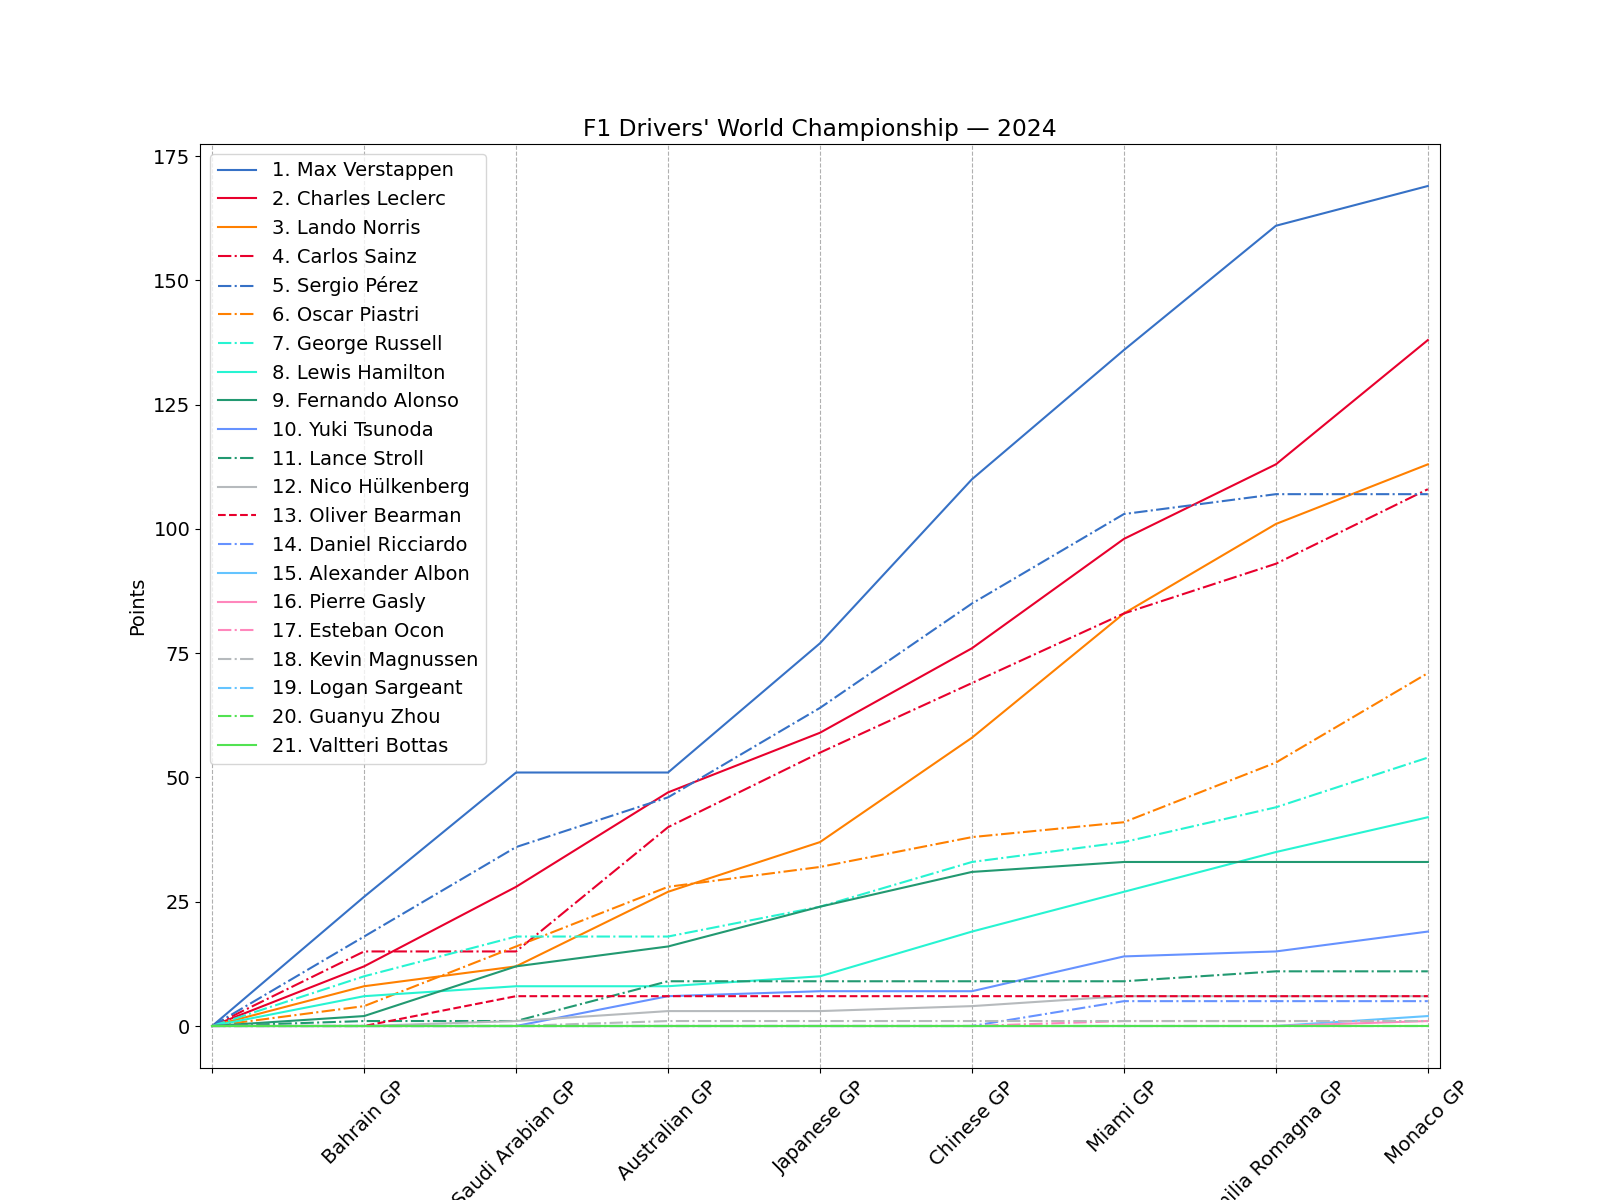
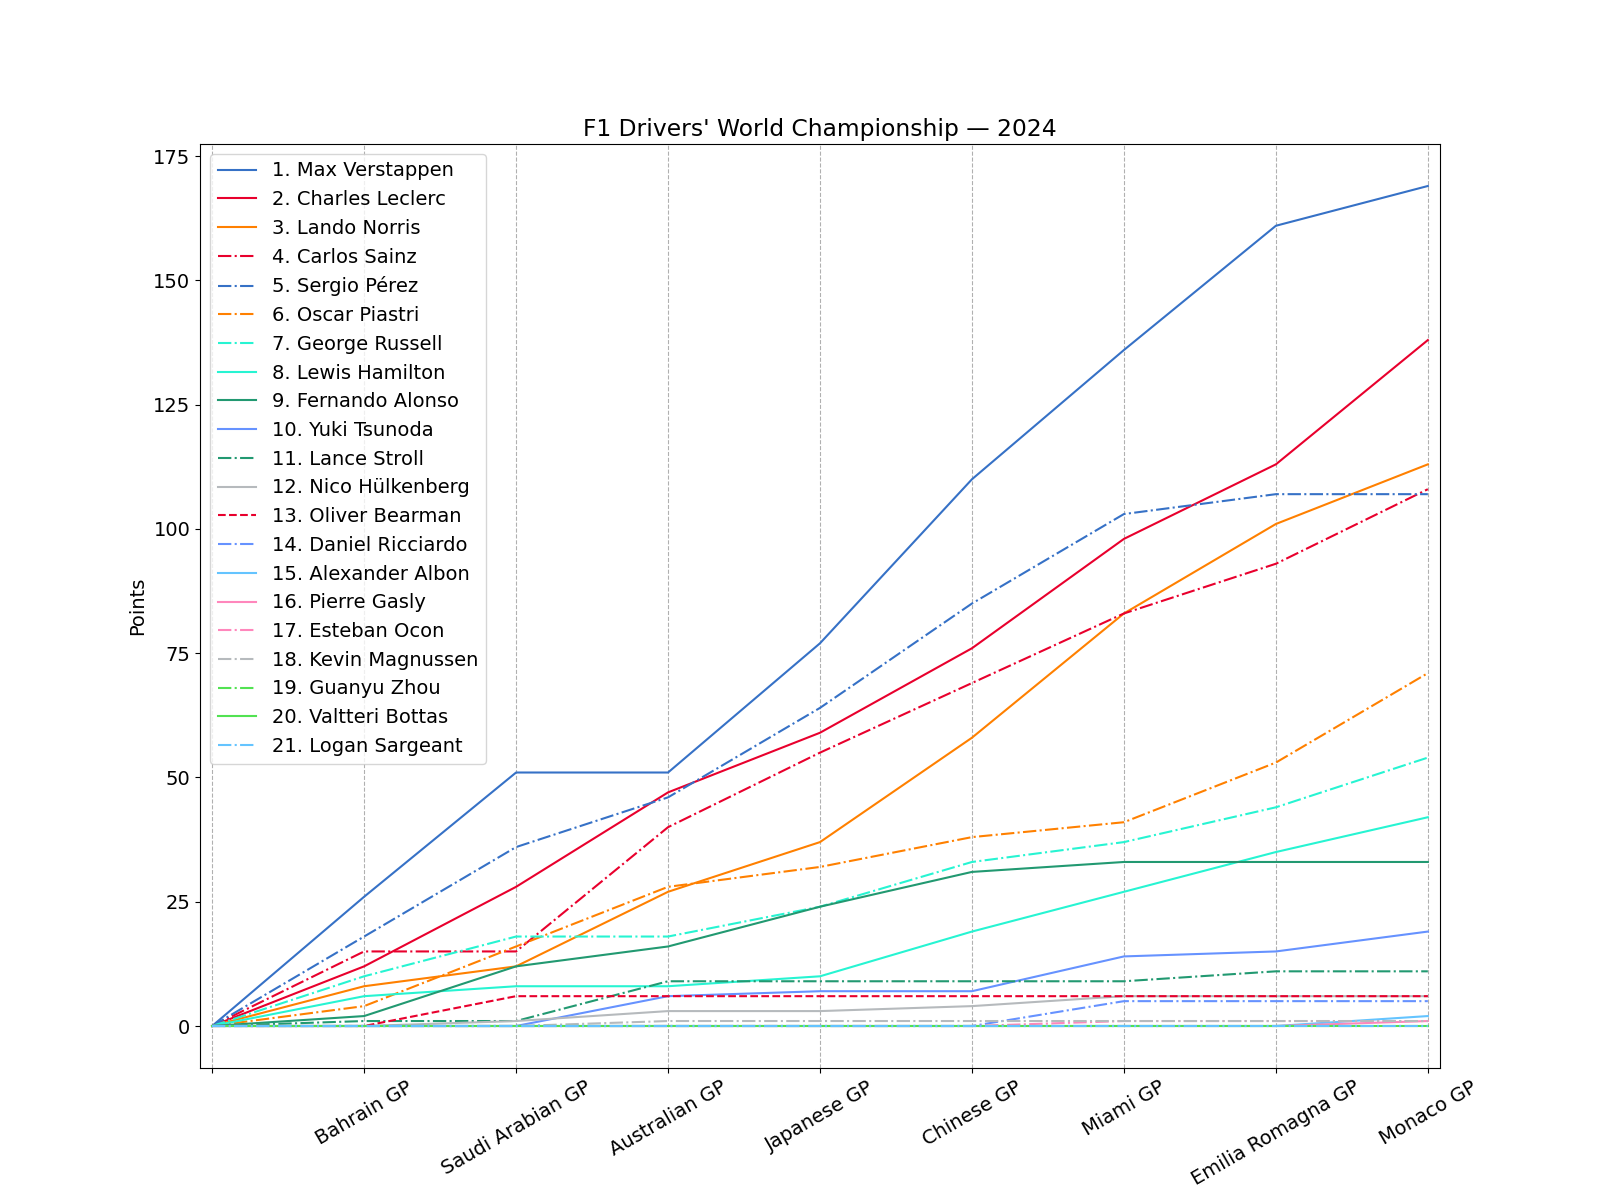
Driver Standings Table

diff --git a/frontend/src/components/Home.js b/frontend/src/components/Home.js
@@ -28,8 +28,41 @@ const Home = () => {
         <div>
             <h1>F1 Data Dashboard</h1>
             <div>
+                <h2>Drivers' Standings</h2>
+                <table>
+                    <thead>
+                        <tr>
+                            <th>Position</th>
+                            <th>Driver</th>
+                            <th>Nationality</th>
+                            <th>Team</th>
+                            <th>Points</th>
+                            <th>Wins</th>
+                            <th>Sprint Wins</th>
+                            <th>Podiums</th>
+                            <th>Sprint Podiums</th>
+                        </tr>
+                    </thead>
+                    <tbody>
+                        {data.drivers_standings_table.map((driver, index) => (
+                            <tr key={index}>
+                                <td>{driver.Position}</td>
+                                <td>{driver.Driver}</td>
+                                <td>{driver.Nationality}</td>
+                                <td>{driver.Team}</td>
+                                <td>{driver.Points}</td>
+                                <td>{driver.Wins}</td>
+                                <td>{driver.SprintWins}</td>
+                                <td>{driver.Podiums}</td>
+                                <td>{driver.SprintPodiums}</td>
+                            </tr>
+                        ))}
+                    </tbody>
+                </table>
+            </div>
+            <div>
                 <h2>F1 Drivers' World Championship</h2>
-                <img src={data.driver_championship_plot_path} alt="F1 Drivers' World Championship" width="800" height="600"/>
+                <img src={data.driver_championship_plot_path} alt="F1 Drivers' World Championship" />
             </div>
         </div>
     );

diff --git a/backend/services/home_service.py b/backend/services/home_service.py
@@ -4,20 +4,24 @@ import matplotlib
 matplotlib.use('Agg')
 import matplotlib.pyplot as plt
 from collections import defaultdict
-from services.common_service import TEAM_C, DRIVER_C, DRIVER_LS, LINESTYLES, get_dataframe
+from services.common_service import TEAM_C, DRIVER_C, DRIVER_LS, LINESTYLES
 from data.model import *
 import os
 
 def get_championship_data(year):
     """
-    Retrieves race and result data for the specified year, along with driver names.
+    Retrieves race, result, sprint result, driver, and team data for the specified year.
 
     Args:
         year (int): The year for which to retrieve the data.
 
     Returns:
-        tuple: A tuple containing a list of race results, a dictionary mapping race IDs to rounds,
-               and a dictionary mapping driver IDs to driver names.
+        tuple: A tuple containing the following elements:
+            - races (list): A list of race documents from the 'races' collection, including 'raceId', 'round', and 'name'.
+            - results (list): A list of result documents from the 'results' collection, including 'raceId', 'driverId', 'positionOrder', 'points', and 'constructorId'.
+            - sprint_results (list): A list of sprint result documents from the 'sprint_results' collection, including 'raceId', 'driverId', 'positionOrder', 'points', and 'constructorId'.
+            - drivers (list): A list of driver documents from the 'drivers' collection, including 'driverId', 'forename', 'surname', and 'nationality'.
+            - constructors (list): A list of constructor documents from the 'constructors' collection, including 'constructorId' and 'name'.
     """
     # Query to get race data for the specified year
     races = list(Races.collection.find({'year': year}, {'name': 1, 'raceId': 1, 'round': 1, '_id': 0}).sort('round'))
@@ -25,21 +29,25 @@ def get_championship_data(year):
     race_ids = [race['raceId'] for race in races]
 
     # Query to get race results
-    results = list(Results.collection.find({'raceId': {'$in': race_ids}}, {'raceId': 1, 'driverId': 1, 'position': 1, 'points': 1, '_id': 0}))
-    sprint_results = list(SprintResults.collection.find({'raceId': {'$in': race_ids}}, {'raceId': 1, 'driverId': 1, 'position': 1, 'points': 1, '_id': 0}))
-    results = results + sprint_results
+    results = list(Results.collection.find({'raceId': {'$in': race_ids}}, {'raceId': 1, 'driverId': 1, 'positionOrder': 1, 'points': 1, 'constructorId': 1, '_id': 0}))
+    sprint_results = list(SprintResults.collection.find({'raceId': {'$in': race_ids}}, {'raceId': 1, 'driverId': 1, 'positionOrder': 1, 'points': 1, 'constructorId': 1, '_id': 0}))
+    combined_results = results + sprint_results
     
     # Filter races to only include those that have results
-    completed_race_ids = set(result['raceId'] for result in results)
+    completed_race_ids = set(result['raceId'] for result in combined_results)
     races = [race for race in races if race['raceId'] in completed_race_ids]
     
     # Extract driver IDs from results
-    driver_ids = list(set(result['driverId'] for result in results))
-
+    driver_ids = list(set(result['driverId'] for result in combined_results))
     # Query to get driver names for the relevant driver IDs
-    drivers = list(Drivers.collection.find({'driverId': {'$in': driver_ids}}, {'driverId': 1, 'forename': 1, 'surname': 1, '_id': 0}))
+    drivers = list(Drivers.collection.find({'driverId': {'$in': driver_ids}}, {'driverId': 1, 'forename': 1, 'surname': 1, 'nationality': 1, '_id': 0}))
 
-    return races, results, drivers
+    # Extract team IDs from combined results
+    constructor_ids = list(set(result['constructorId'] for result in combined_results))
+    # Query to get team names for the relevant team IDs
+    constructors = list(Constructors.collection.find({'constructorId': {'$in': constructor_ids}}, {'constructorId': 1, 'name': 1, '_id': 0}))
+    
+    return races, results, sprint_results, drivers, constructors
 
 def generate_drivers_championship_plot(year):
     """
@@ -48,11 +56,11 @@ def generate_drivers_championship_plot(year):
     Returns:
         dict: A dictionary containing the relative path to the generated plot image.
     """
-    races, results, drivers = get_championship_data(year)
-    print(pd.DataFrame(races))
-    print(pd.DataFrame(results))
-    print(pd.DataFrame(drivers))
-
+    races, results, sprint_results, drivers, constructos = get_championship_data(year)
+    
+    # Combining results makes no differences 
+    results = results + sprint_results
+    
     # Create a map driver -> {race -> points}, summing points if there are multiple results for the same driver and race
     driver_points = defaultdict(lambda: defaultdict(int))
     for result in results:
@@ -80,8 +88,9 @@ def generate_drivers_championship_plot(year):
     # Create a dictionary mapping driver IDs to driver names
     driver_names = {driver['driverId']: f"{driver['forename']} {driver['surname']}" for driver in drivers}
 
-    # Sort drivers by their final cumulative points in descending order
-    sorted_drivers = sorted(driver_cumulative_points.items(), key=lambda x: x[1][-1], reverse=True)
+    # Sort drivers by their final cumulative points in descending order, then by positionOrder
+    driver_final_positions = {result['driverId']: result['positionOrder'] for result in results}
+    sorted_drivers = sorted(driver_cumulative_points.items(), key=lambda x: (x[1][-1], -driver_final_positions.get(x[0], float('inf'))), reverse=True)
 
     # Generate the plot
     plt.rc("figure", figsize=(16, 12))
@@ -95,21 +104,94 @@ def generate_drivers_championship_plot(year):
 
 
     ax.set_xticks(range(len(sorted_races) + 1))  # +1 to account for the starting 0
-    ax.set_xticklabels([''] + [f"{race_names[race_id]}" for race_id in sorted_races], rotation=45)
+    ax.set_xticklabels([''] + [f"{race_names[race_id]}" for race_id in sorted_races], rotation=30)
     ax.grid(axis="x", linestyle="--")
     ax.set_ylabel("Points")
     ax.set_title(f"F1 Drivers' World Championship — {year}")
     ax.legend()
 
+    # Make the background transparent
+    fig.patch.set_alpha(0.0)
+    ax.patch.set_alpha(0.0)
 
     # Save the plot
     neutral_path = os.path.join('static', 'images', 'driver_championship_plot.png')
     storage_path = os.path.join(os.getcwd(), neutral_path)
     return_path = os.path.join('http://127.0.0.1:5000', neutral_path)
-    fig.savefig(storage_path, format='png')
+    fig.savefig(storage_path, format='png', transparent=True)
     plt.close(fig)
 
     return {'driver_championship_plot_path': return_path}
+
+def generate_drivers_standings_table(year):
+    """
+    Generates the drivers' standings table for the specified year.
+
+    Returns:
+        dict: A dictionary containing the drivers' standings table data.
+    """
+    races, results, sprint_results, drivers, constructors = get_championship_data(year)
+
+    # Create a map driver_id -> driver_info
+    driver_info = {driver['driverId']: driver for driver in drivers}
+
+    # Create a map constructor_id -> constructor_name
+    constructor_info = {constructor['constructorId']: constructor['name'] for constructor in constructors}
+    
+    # Initialize dictionary to store driver standings data
+    driver_standings = defaultdict(lambda: {
+        'Driver': '',
+        'Nationality': '',
+        'Team': '',
+        'Points': 0,
+        'Wins': 0,
+        'SprintWins': 0,
+        'Podiums': 0,
+        'SprintPodiums': 0
+    })
+    
+    # Process each result to update driver standings
+    for result in results:
+        driver_id = result['driverId']
+        points = result['points']
+        position = result['positionOrder']
+        constructor_id = result['constructorId']
+        
+        driver_standings[driver_id]['Points'] += points
+        if position == 1:
+            driver_standings[driver_id]['Wins'] += 1
+        if position <= 3:
+            driver_standings[driver_id]['Podiums'] += 1
+        driver_standings[driver_id]['Team'] = constructor_info.get(constructor_id, 'Unknown')
+
+    # Process each sprint result to update driver standings
+    for sprint_result in sprint_results:
+        driver_id = sprint_result['driverId']
+        points = sprint_result['points']
+        position = sprint_result['positionOrder']
+        
+        driver_standings[driver_id]['Points'] += points
+        if position == 1:
+            driver_standings[driver_id]['SprintWins'] += 1
+        if position <= 3:
+            driver_standings[driver_id]['SprintPodiums'] += 1
+
+    # Fill in driver and team information
+    for driver_id, info in driver_info.items():
+        driver_standings[driver_id]['Driver'] = f"{info['forename']} {info['surname']}"
+        driver_standings[driver_id]['Nationality'] = info['nationality']
+
+    # Sort drivers by their final cumulative points in descending order, then by positionOrder
+    driver_final_positions = {result['driverId']: result['positionOrder'] for result in results + sprint_results}
+    sorted_standings = sorted(driver_standings.items(), key=lambda x: (x[1]['Points'], -driver_final_positions.get(x[0], float('inf'))), reverse=True)
+
+    # Create a DataFrame for better formatting
+    df_standings = pd.DataFrame([standings for driver_id, standings in sorted_standings])
+    df_standings.index = range(1, len(df_standings) + 1)
+    df_standings.reset_index(inplace=True)
+    df_standings.rename(columns={'index': 'Position'}, inplace=True)
+
+    return df_standings.to_dict(orient='records')
 
 def generate_home_data():
     """
@@ -123,8 +205,13 @@ def generate_home_data():
     return_path = os.path.join('http://127.0.0.1:5000', neutral_path)
 
     if os.path.exists(storage_path):
-        return {
-            'driver_championship_plot_path': return_path
-        }
+        plot_path = return_path
+    else:
+        plot_path = generate_drivers_championship_plot(2024)
+    
+    standings_table = generate_drivers_standings_table(2024)
 
-    return generate_drivers_championship_plot(2024)
+    return {
+        'driver_championship_plot_path': plot_path,
+        'drivers_standings_table': standings_table
+    }

diff --git a/backend/services/common_service.py b/backend/services/common_service.py
@@ -107,16 +107,3 @@ LINESTYLES = {
     "dashdot": '-.',
     "dashed": '--'
 }
-
-def get_dataframe(collection):
-    """
-    Convert MongoDB collection to pandas DataFrame.
-    
-    Args:
-        collection (Collection): The MongoDB collection.
-    
-    Returns:
-        DataFrame: The resulting pandas DataFrame.
-    """
-    data = list(collection.find())
-    return pd.DataFrame(data)
